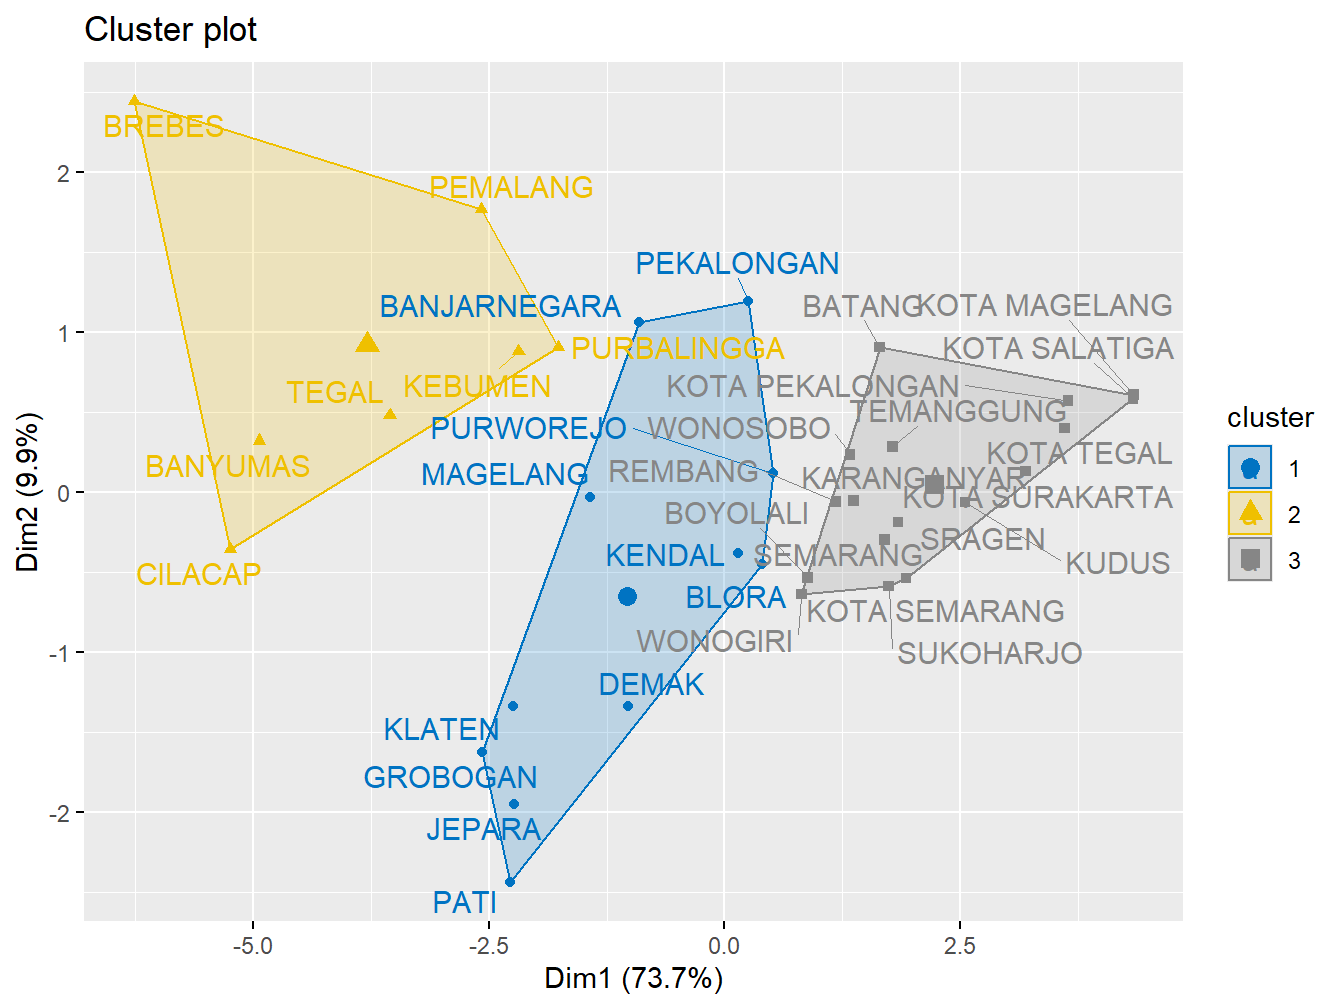
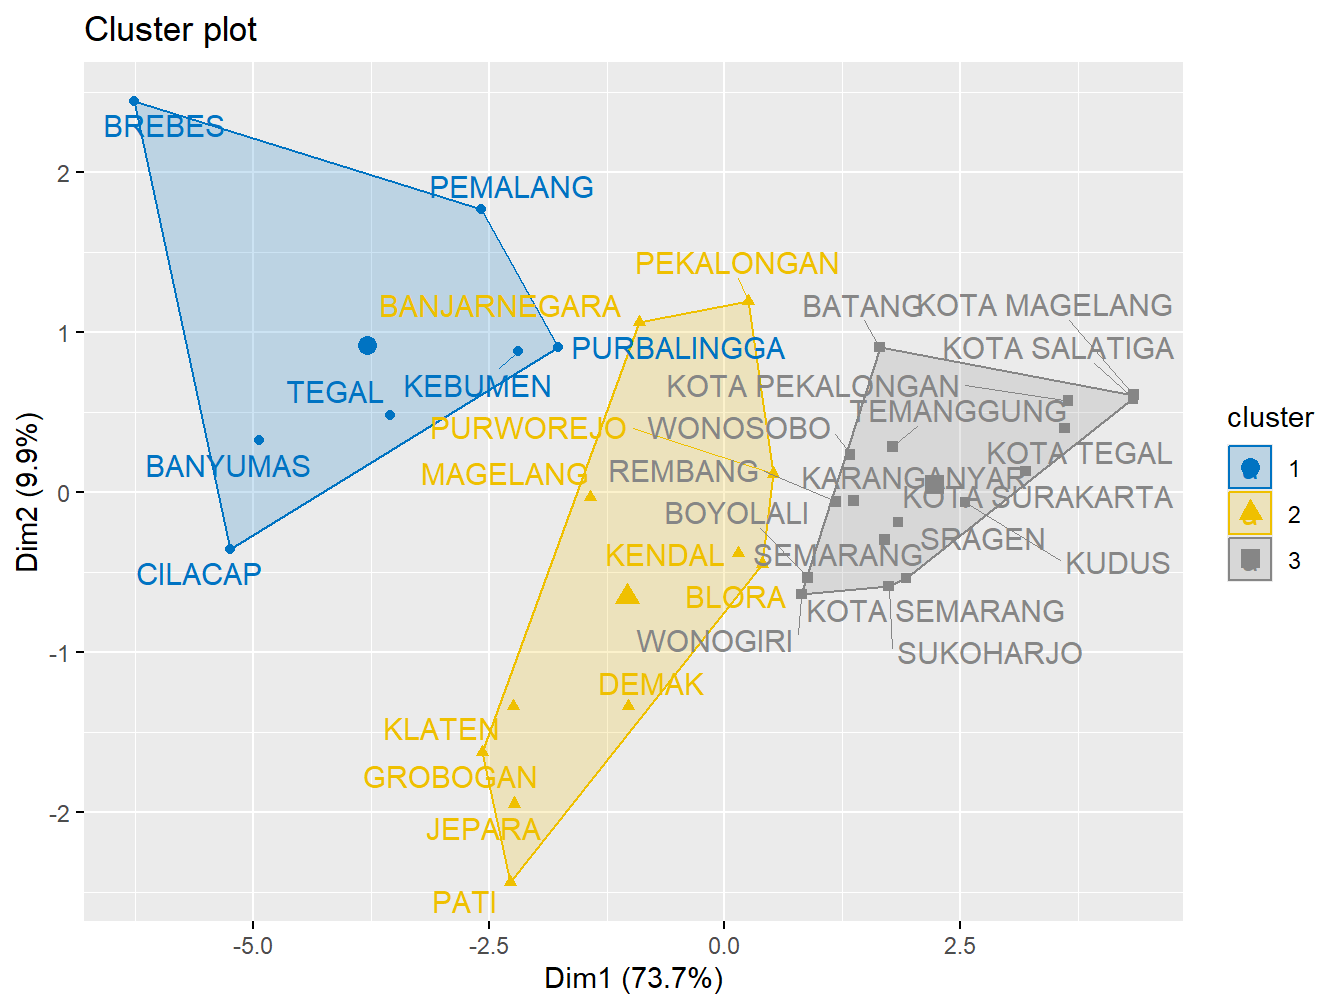
update cover

Changed region(s): [[0.0625, 0.0923, 0.625, 0.9226]]

diff --git a/docs/index.html b/docs/index.html
@@ -383,10 +383,7 @@ text-align: justify}
 Bisnis Muhammadiyah <br> Semarang, Indonesia <br>
 <a href=\"mailto:deden.istiawan@itesa.ac.id?subject=Clustering%20with%20R\"><a href="mailto:deden.istiawan@itesa.ac.id" class="email">deden.istiawan@itesa.ac.id</a>.</a>
 <br><br>
-Last updated on Friday, January 10, 2025.
-<br> <br>
-<iframe src="https://www.facebook.com/plugins/like.php?href=https%3A%2F%2Fwww.facebook.com%2FEconometricsWithR%2F&width=450&layout=standard&action=like&size=small&show_faces=true&share=true&height=80&appId" width="400" height="70" style="border:none;overflow:hidden" scrolling="no" frameborder="0" allowTransparency="true" allow="encrypted-media" align="left"></iframe>
-<br> <br> <br></p>
+Last updated on Friday, January 10, 2025.</p>
 <hr style="background-color:#3C6690;height:2px">
 <p>Analisis <em>cluster</em> merupakan teknik yang sangat penting dalam bidang data
 science, karena kemampuannya untuk mengelompokkan data berdasarkan

diff --git a/docs/08-ch8.md b/docs/08-ch8.md
@@ -127,41 +127,41 @@ library(ppclust)
 res.fcm <- fcm(data, centers=3)
 as.data.frame(res.fcm$u)
 #>                  Cluster 1  Cluster 2  Cluster 3
-#> CILACAP         0.70608174 0.09432155 0.19959671
-#> BANYUMAS        0.87685700 0.03242738 0.09071562
-#> PURBALINGGA     0.58855259 0.12503329 0.28641412
-#> BANJARNEGARA    0.27431153 0.15770912 0.56797934
-#> KEBUMEN         0.55326811 0.12183017 0.32490172
-#> PURWOREJO       0.15508384 0.37665821 0.46825795
-#> WONOSOBO        0.04794255 0.73997169 0.21208577
-#> MAGELANG        0.11864932 0.12565978 0.75569090
-#> BOYOLALI        0.04746322 0.65917928 0.29335751
-#> KLATEN          0.40625017 0.15366683 0.44008300
-#> SUKOHARJO       0.01812578 0.90659203 0.07528219
-#> WONOGIRI        0.05984340 0.62649398 0.31366262
-#> KARANGANYAR     0.03151333 0.83280963 0.13567704
-#> SRAGEN          0.01369224 0.92987167 0.05643609
-#> GROBOGAN        0.20509357 0.10906165 0.68584478
-#> BLORA           0.06584083 0.42364979 0.51050938
-#> REMBANG         0.03515460 0.77496097 0.18988443
-#> PATI            0.18018760 0.18226626 0.63754615
-#> KUDUS           0.01358093 0.93999864 0.04642043
-#> JEPARA          0.17434136 0.13357477 0.69208387
-#> DEMAK           0.12077163 0.22405973 0.65516864
-#> SEMARANG        0.01375558 0.92443899 0.06180543
-#> TEMANGGUNG      0.01515432 0.92181846 0.06302723
-#> KENDAL          0.07103512 0.30783534 0.62112953
-#> BATANG          0.05146780 0.74568211 0.20285008
-#> PEKALONGAN      0.11753007 0.33879435 0.54367557
-#> PEMALANG        0.47108349 0.13508254 0.39383397
-#> TEGAL           0.61445746 0.08391671 0.30162583
-#> BREBES          0.64100931 0.11958050 0.23941019
-#> KOTA MAGELANG   0.05127744 0.82227544 0.12644712
-#> KOTA SURAKARTA  0.03051218 0.88284897 0.08663885
-#> KOTA SALATIGA   0.05093432 0.82356236 0.12550332
-#> KOTA SEMARANG   0.04152177 0.81177689 0.14670134
-#> KOTA PEKALONGAN 0.03226874 0.87988142 0.08784985
-#> KOTA TEGAL      0.03188749 0.88100104 0.08711147
+#> CILACAP         0.19959671 0.70608174 0.09432155
+#> BANYUMAS        0.09071562 0.87685700 0.03242738
+#> PURBALINGGA     0.28641412 0.58855259 0.12503329
+#> BANJARNEGARA    0.56797934 0.27431153 0.15770912
+#> KEBUMEN         0.32490172 0.55326811 0.12183017
+#> PURWOREJO       0.46825795 0.15508384 0.37665821
+#> WONOSOBO        0.21208577 0.04794255 0.73997169
+#> MAGELANG        0.75569090 0.11864932 0.12565978
+#> BOYOLALI        0.29335751 0.04746322 0.65917928
+#> KLATEN          0.44008300 0.40625017 0.15366683
+#> SUKOHARJO       0.07528219 0.01812578 0.90659203
+#> WONOGIRI        0.31366262 0.05984340 0.62649398
+#> KARANGANYAR     0.13567704 0.03151333 0.83280963
+#> SRAGEN          0.05643609 0.01369224 0.92987167
+#> GROBOGAN        0.68584478 0.20509357 0.10906165
+#> BLORA           0.51050938 0.06584083 0.42364979
+#> REMBANG         0.18988443 0.03515460 0.77496097
+#> PATI            0.63754615 0.18018760 0.18226626
+#> KUDUS           0.04642043 0.01358093 0.93999864
+#> JEPARA          0.69208387 0.17434136 0.13357477
+#> DEMAK           0.65516864 0.12077163 0.22405973
+#> SEMARANG        0.06180543 0.01375558 0.92443899
+#> TEMANGGUNG      0.06302723 0.01515432 0.92181846
+#> KENDAL          0.62112953 0.07103512 0.30783534
+#> BATANG          0.20285008 0.05146780 0.74568211
+#> PEKALONGAN      0.54367557 0.11753007 0.33879435
+#> PEMALANG        0.39383397 0.47108349 0.13508254
+#> TEGAL           0.30162583 0.61445746 0.08391671
+#> BREBES          0.23941019 0.64100931 0.11958050
+#> KOTA MAGELANG   0.12644712 0.05127744 0.82227544
+#> KOTA SURAKARTA  0.08663885 0.03051218 0.88284897
+#> KOTA SALATIGA   0.12550332 0.05093432 0.82356236
+#> KOTA SEMARANG   0.14670134 0.04152177 0.81177689
+#> KOTA PEKALONGAN 0.08784985 0.03226874 0.87988142
+#> KOTA TEGAL      0.08711147 0.03188749 0.88100104
 ```
 
 ### Visualisasi Matrik Keanggotaan {-}
@@ -184,10 +184,10 @@ Kode ini digunakan untuk mengakses dan menampilkan pusat cluster pertama (\(v_0\
 
 ``` r
 res.fcm$v0
-#>             X1   X2   X3   X4   X5   X6   X7   X8   X9  X10
-#> Cluster 1 5.00 2.93 7.03 3.52 3.63 5.74 1.44 5.46 2.91 7.10
-#> Cluster 2 1.01 1.31 0.55 0.78 1.25 0.95 2.40 0.75 0.20 0.03
-#> Cluster 3 2.44 3.51 2.23 2.74 2.17 2.14 1.28 2.68 4.03 2.32
+#>             X1   X2   X3   X4   X5   X6    X7   X8   X9  X10
+#> Cluster 1 5.00 2.93 7.03 3.52 3.63 5.74  1.44 5.46 2.91 7.10
+#> Cluster 2 5.19 5.67 5.08 5.44 5.22 6.05 11.47 9.78 5.55 5.12
+#> Cluster 3 2.19 3.07 1.61 2.74 2.11 1.82  1.71 2.34 3.41 1.55
 ```
 
 Kode ini digunakan untuk mengakses dan menampilkan pusat cluster yang dihasilkan setelah algoritma Fuzzy C-Means (FCM) selesai dijalankan. Pada objek `res.fcm`, atribut `v` menyimpan informasi tentang posisi pusat cluster yang telah diperbarui setelah iterasi terakhir. Pusat cluster ini merupakan hasil akhir dari proses clustering dan menunjukkan lokasi sentroid (pusat) dari setiap cluster berdasarkan data dan derajat keanggotaan yang telah dihitung. Dengan menampilkan `res.fcm$v`, kita dapat melihat posisi akhir setiap cluster dalam ruang fitur data, yang membantu untuk memahami bagaimana data telah dikelompokkan ke dalam cluster yang berbeda setelah proses clustering selesai.
@@ -196,13 +196,13 @@ Kode ini digunakan untuk mengakses dan menampilkan pusat cluster yang dihasilkan
 ``` r
 res.fcm$v
 #>                 X1       X2       X3       X4       X5       X6       X7
-#> Cluster 1 5.001721 4.041093 5.531054 4.669414 4.638562 5.500335 6.458007
-#> Cluster 2 1.724771 1.743303 1.432408 1.706002 1.626688 1.504833 1.335312
-#> Cluster 3 3.418238 4.025821 3.497306 3.657048 3.843888 3.477061 3.074419
+#> Cluster 1 3.418238 4.025821 3.497306 3.657048 3.843888 3.477061 3.074419
+#> Cluster 2 5.001721 4.041093 5.531054 4.669414 4.638562 5.500335 6.458007
+#> Cluster 3 1.724771 1.743303 1.432408 1.706002 1.626688 1.504833 1.335312
 #>                 X8       X9      X10
-#> Cluster 1 7.009924 4.458629 6.474407
-#> Cluster 2 1.021470 1.697120 1.056498
-#> Cluster 3 3.057133 3.802309 3.529256
+#> Cluster 1 3.057133 3.802309 3.529256
+#> Cluster 2 7.009924 4.458629 6.474407
+#> Cluster 3 1.021470 1.697120 1.056498
 ```
 
 ### Ringkasan Hasil Clustering FCM {-}
@@ -219,62 +219,62 @@ summary(res.fcm)
 #> Number of clusters:  3 
 #> 
 #> Crisp clustering vector:
-#>  [1] 1 1 1 3 1 3 2 3 2 3 2 2 2 2 3 3 2 3 2 3 3 2 2 3 2 3 1 1 1 2 2 2 2 2 2
+#>  [1] 2 2 2 1 2 1 3 1 3 1 3 3 3 3 1 1 3 1 3 1 1 3 3 1 3 1 2 2 2 3 3 3 3 3 3
 #> 
 #> Initial cluster prototypes:
-#>             X1   X2   X3   X4   X5   X6   X7   X8   X9  X10
-#> Cluster 1 5.00 2.93 7.03 3.52 3.63 5.74 1.44 5.46 2.91 7.10
-#> Cluster 2 1.01 1.31 0.55 0.78 1.25 0.95 2.40 0.75 0.20 0.03
-#> Cluster 3 2.44 3.51 2.23 2.74 2.17 2.14 1.28 2.68 4.03 2.32
+#>             X1   X2   X3   X4   X5   X6    X7   X8   X9  X10
+#> Cluster 1 5.00 2.93 7.03 3.52 3.63 5.74  1.44 5.46 2.91 7.10
+#> Cluster 2 5.19 5.67 5.08 5.44 5.22 6.05 11.47 9.78 5.55 5.12
+#> Cluster 3 2.19 3.07 1.61 2.74 2.11 1.82  1.71 2.34 3.41 1.55
 #> 
 #> Final cluster prototypes:
 #>                 X1       X2       X3       X4       X5       X6       X7
-#> Cluster 1 5.001721 4.041093 5.531054 4.669414 4.638562 5.500335 6.458007
-#> Cluster 2 1.724771 1.743303 1.432408 1.706002 1.626688 1.504833 1.335312
-#> Cluster 3 3.418238 4.025821 3.497306 3.657048 3.843888 3.477061 3.074419
+#> Cluster 1 3.418238 4.025821 3.497306 3.657048 3.843888 3.477061 3.074419
+#> Cluster 2 5.001721 4.041093 5.531054 4.669414 4.638562 5.500335 6.458007
+#> Cluster 3 1.724771 1.743303 1.432408 1.706002 1.626688 1.504833 1.335312
 #>                 X8       X9      X10
-#> Cluster 1 7.009924 4.458629 6.474407
-#> Cluster 2 1.021470 1.697120 1.056498
-#> Cluster 3 3.057133 3.802309 3.529256
+#> Cluster 1 3.057133 3.802309 3.529256
+#> Cluster 2 7.009924 4.458629 6.474407
+#> Cluster 3 1.021470 1.697120 1.056498
 #> 
 #> Distance between the final cluster prototypes
 #>           Cluster 1 Cluster 2
-#> Cluster 2 165.71763          
-#> Cluster 3  48.57171  42.66853
+#> Cluster 2  48.57171          
+#> Cluster 3  42.66853 165.71763
 #> 
 #> Difference between the initial and final cluster prototypes
-#>                    X1        X2         X3        X4        X5         X6
-#> Cluster 1 0.001721419 1.1110934 -1.4989460 1.1494145 1.0085617 -0.2396647
-#> Cluster 2 0.714770622 0.4333027  0.8824084 0.9260023 0.3766881  0.5548330
-#> Cluster 3 0.978238223 0.5158210  1.2673058 0.9170484 1.6738885  1.3370614
+#>                   X1        X2         X3         X4         X5         X6
+#> Cluster 1 -1.5817618  1.095821 -3.5326942  0.1370484  0.2138885 -2.2629386
+#> Cluster 2 -0.1882786 -1.628907  0.4510540 -0.7705855 -0.5814383 -0.5496647
+#> Cluster 3 -0.4652294 -1.326697 -0.1775916 -1.0339977 -0.4833119 -0.3151670
 #>                  X7        X8         X9        X10
-#> Cluster 1  5.018007 1.5499240  1.5486289 -0.6255932
-#> Cluster 2 -1.064688 0.2714704  1.4971205  1.0264979
-#> Cluster 3  1.794419 0.3771326 -0.2276907  1.2092557
+#> Cluster 1  1.634419 -2.402867  0.8923093 -3.5707443
+#> Cluster 2 -5.011993 -2.770076 -1.0913711  1.3544068
+#> Cluster 3 -0.374688 -1.318530 -1.7128795 -0.4935021
 #> 
-#> Root Mean Squared Deviations (RMSD): 4.34635 
-#> Mean Absolute Deviation (MAD): 105.9907 
+#> Root Mean Squared Deviations (RMSD): 5.530865 
+#> Mean Absolute Deviation (MAD): 131.4129 
 #> 
 #> Membership degrees matrix (top and bottom 5 rows): 
-#>              Cluster 1  Cluster 2  Cluster 3
-#> CILACAP      0.7060817 0.09432155 0.19959671
-#> BANYUMAS     0.8768570 0.03242738 0.09071562
-#> PURBALINGGA  0.5885526 0.12503329 0.28641412
-#> BANJARNEGARA 0.2743115 0.15770912 0.56797934
-#> KEBUMEN      0.5532681 0.12183017 0.32490172
+#>               Cluster 1 Cluster 2  Cluster 3
+#> CILACAP      0.19959671 0.7060817 0.09432155
+#> BANYUMAS     0.09071562 0.8768570 0.03242738
+#> PURBALINGGA  0.28641412 0.5885526 0.12503329
+#> BANJARNEGARA 0.56797934 0.2743115 0.15770912
+#> KEBUMEN      0.32490172 0.5532681 0.12183017
 #> ...
-#>                  Cluster 1 Cluster 2  Cluster 3
-#> KOTA SURAKARTA  0.03051218 0.8828490 0.08663885
-#> KOTA SALATIGA   0.05093432 0.8235624 0.12550332
-#> KOTA SEMARANG   0.04152177 0.8117769 0.14670134
-#> KOTA PEKALONGAN 0.03226873 0.8798814 0.08784985
-#> KOTA TEGAL      0.03188749 0.8810010 0.08711147
+#>                  Cluster 1  Cluster 2 Cluster 3
+#> KOTA SURAKARTA  0.08663885 0.03051218 0.8828490
+#> KOTA SALATIGA   0.12550332 0.05093432 0.8235624
+#> KOTA SEMARANG   0.14670134 0.04152177 0.8117769
+#> KOTA PEKALONGAN 0.08784985 0.03226873 0.8798814
+#> KOTA TEGAL      0.08711147 0.03188749 0.8810010
 #> 
 #> Descriptive statistics for the membership degrees by clusters
 #>           Size       Min        Q1      Mean    Median        Q3       Max
-#> Cluster 1    7 0.4710835 0.5709104 0.6359014 0.6144575 0.6735455 0.8768570
-#> Cluster 2   17 0.6264940 0.7749610 0.8295979 0.8328096 0.9065920 0.9399986
-#> Cluster 3   11 0.4400830 0.5270925 0.5979972 0.6211295 0.6705067 0.7556909
+#> Cluster 1   11 0.4400830 0.5270925 0.5979972 0.6211295 0.6705067 0.7556909
+#> Cluster 2    7 0.4710835 0.5709104 0.6359014 0.6144575 0.6735455 0.8768570
+#> Cluster 3   17 0.6264940 0.7749610 0.8295979 0.8328096 0.9065920 0.9399986
 #> 
 #> Dunn's Fuzziness Coefficients:
 #> dunn_coeff normalized 
@@ -282,7 +282,7 @@ summary(res.fcm)
 #> 
 #> Within cluster sum of squares by cluster:
 #>        1        2        3 
-#> 220.3251 130.5953 200.0818 
+#> 200.0818 220.3251 130.5953 
 #> (between_SS / total_SS =  61.98%) 
 #> 
 #> Available components: 
@@ -316,7 +316,7 @@ Menampilkan `res.fcm$iter` memberikan wawasan tentang seberapa cepat atau lambat
 
 ``` r
 res.fcm$iter
-#> [1] 75 85 72 75 77
+#> [1] 83 78 83 86 78
 ```
 
 Untuk menampilkan hasil terbaik dari beberapa percobaan yang dilakukan selama eksekusi algoritma Fuzzy C-Means (FCM) dengan multiple starts. Atribut `res.fcm$best.start` menunjukkan indeks dari percobaan (start) yang menghasilkan solusi terbaik berdasarkan nilai fungsi tujuan (objective function) terendah. 

diff --git a/docs/01-ch1.md b/docs/01-ch1.md
@@ -286,8 +286,8 @@ Berikut adalah library yang digunakan dalam buku ini:
 
 
 ```{=html}
-<div class="datatables html-widget html-fill-item" id="htmlwidget-b53b9e305381bcf9c714" style="width:100%;height:auto;"></div>
-<script type="application/json" data-for="htmlwidget-b53b9e305381bcf9c714">{"x":{"filter":"top","vertical":false,"filterHTML":"<tr>\n  <td data-type=\"character\" style=\"vertical-align: top;\">\n    <div class=\"form-group has-feedback\" style=\"margin-bottom: auto;\">\n      <input type=\"search\" placeholder=\"All\" class=\"form-control\" style=\"width: 100%;\"/>\n      <span class=\"glyphicon glyphicon-remove-circle form-control-feedback\"><\/span>\n    <\/div>\n  <\/td>\n  <td data-type=\"character\" style=\"vertical-align: top;\">\n    <div class=\"form-group has-feedback\" style=\"margin-bottom: auto;\">\n      <input type=\"search\" placeholder=\"All\" class=\"form-control\" style=\"width: 100%;\"/>\n      <span class=\"glyphicon glyphicon-remove-circle form-control-feedback\"><\/span>\n    <\/div>\n  <\/td>\n  <td data-type=\"character\" style=\"vertical-align: top;\">\n    <div class=\"form-group has-feedback\" style=\"margin-bottom: auto;\">\n      <input type=\"search\" placeholder=\"All\" class=\"form-control\" style=\"width: 100%;\"/>\n      <span class=\"glyphicon glyphicon-remove-circle form-control-feedback\"><\/span>\n    <\/div>\n  <\/td>\n  <td data-type=\"character\" style=\"vertical-align: top;\">\n    <div class=\"form-group has-feedback\" style=\"margin-bottom: auto;\">\n      <input type=\"search\" placeholder=\"All\" class=\"form-control\" style=\"width: 100%;\"/>\n      <span class=\"glyphicon glyphicon-remove-circle form-control-feedback\"><\/span>\n    <\/div>\n  <\/td>\n<\/tr>","data":[["corrplot","dendextend","dplyr","DT","factoextra","ggplot2","gridExtra","igraph","klaR","ppclust","cluster","MASS"],["0.95","1.18.1","1.1.4","0.33","1.0.7","3.5.1","2.3","2.1.1","1.7-3","1.1.0.1","2.1.6","7.3-60.2"],["4.4.1","4.4.1","4.4.0","4.4.1","4.4.2","4.4.2","4.4.1","4.4.1","4.4.2","4.4.1","4.4.0","4.4.0"],[null,null,null,null,null,null,null,null,null,null,"recommended","recommended"]],"container":"<table class=\"cell-border stripe\">\n  <thead>\n    <tr>\n      <th>Package<\/th>\n      <th>Version<\/th>\n      <th>Built<\/th>\n      <th>Priority<\/th>\n    <\/tr>\n  <\/thead>\n<\/table>","options":{"pageLength":12,"autoWidth":true,"bInfo":false,"paging":false,"columnDefs":[{"name":"Package","targets":0},{"name":"Version","targets":1},{"name":"Built","targets":2},{"name":"Priority","targets":3}],"order":[],"orderClasses":false,"orderCellsTop":true,"lengthMenu":[10,12,25,50,100]}},"evals":[],"jsHooks":[]}</script>
+<div class="datatables html-widget html-fill-item" id="htmlwidget-e7a90687ce55a20b1467" style="width:100%;height:auto;"></div>
+<script type="application/json" data-for="htmlwidget-e7a90687ce55a20b1467">{"x":{"filter":"top","vertical":false,"filterHTML":"<tr>\n  <td data-type=\"character\" style=\"vertical-align: top;\">\n    <div class=\"form-group has-feedback\" style=\"margin-bottom: auto;\">\n      <input type=\"search\" placeholder=\"All\" class=\"form-control\" style=\"width: 100%;\"/>\n      <span class=\"glyphicon glyphicon-remove-circle form-control-feedback\"><\/span>\n    <\/div>\n  <\/td>\n  <td data-type=\"character\" style=\"vertical-align: top;\">\n    <div class=\"form-group has-feedback\" style=\"margin-bottom: auto;\">\n      <input type=\"search\" placeholder=\"All\" class=\"form-control\" style=\"width: 100%;\"/>\n      <span class=\"glyphicon glyphicon-remove-circle form-control-feedback\"><\/span>\n    <\/div>\n  <\/td>\n  <td data-type=\"character\" style=\"vertical-align: top;\">\n    <div class=\"form-group has-feedback\" style=\"margin-bottom: auto;\">\n      <input type=\"search\" placeholder=\"All\" class=\"form-control\" style=\"width: 100%;\"/>\n      <span class=\"glyphicon glyphicon-remove-circle form-control-feedback\"><\/span>\n    <\/div>\n  <\/td>\n  <td data-type=\"character\" style=\"vertical-align: top;\">\n    <div class=\"form-group has-feedback\" style=\"margin-bottom: auto;\">\n      <input type=\"search\" placeholder=\"All\" class=\"form-control\" style=\"width: 100%;\"/>\n      <span class=\"glyphicon glyphicon-remove-circle form-control-feedback\"><\/span>\n    <\/div>\n  <\/td>\n<\/tr>","data":[["corrplot","dendextend","dplyr","DT","factoextra","ggplot2","gridExtra","igraph","klaR","ppclust","cluster","MASS"],["0.95","1.18.1","1.1.4","0.33","1.0.7","3.5.1","2.3","2.1.1","1.7-3","1.1.0.1","2.1.6","7.3-60.2"],["4.4.1","4.4.1","4.4.0","4.4.1","4.4.2","4.4.2","4.4.1","4.4.1","4.4.2","4.4.1","4.4.0","4.4.0"],[null,null,null,null,null,null,null,null,null,null,"recommended","recommended"]],"container":"<table class=\"cell-border stripe\">\n  <thead>\n    <tr>\n      <th>Package<\/th>\n      <th>Version<\/th>\n      <th>Built<\/th>\n      <th>Priority<\/th>\n    <\/tr>\n  <\/thead>\n<\/table>","options":{"pageLength":12,"autoWidth":true,"bInfo":false,"paging":false,"columnDefs":[{"name":"Package","targets":0},{"name":"Version","targets":1},{"name":"Built","targets":2},{"name":"Priority","targets":3}],"order":[],"orderClasses":false,"orderCellsTop":true,"lengthMenu":[10,12,25,50,100]}},"evals":[],"jsHooks":[]}</script>
 ```
 
 

diff --git a/docs/index.md b/docs/index.md
@@ -78,9 +78,6 @@ Bisnis Muhammadiyah <br> Semarang, Indonesia <br>
 <a href=\"mailto:deden.istiawan@itesa.ac.id?subject=Clustering%20with%20R\">[deden.istiawan\@itesa.ac.id](mailto:deden.istiawan@itesa.ac.id){.email}.</a>
 <br><br>
 Last updated on Friday, January 10, 2025.
-<br> <br>
-<iframe src="https://www.facebook.com/plugins/like.php?href=https%3A%2F%2Fwww.facebook.com%2FEconometricsWithR%2F&width=450&layout=standard&action=like&size=small&show_faces=true&share=true&height=80&appId" width="400" height="70" style="border:none;overflow:hidden" scrolling="no" frameborder="0" allowTransparency="true" allow="encrypted-media" align="left"></iframe>
-<br> <br> <br>
 
 <hr style="background-color:#3C6690;height:2px">
 

diff --git a/docs/09-ch9.md b/docs/09-ch9.md
@@ -172,9 +172,9 @@ res.pcm <- pcm(iris_data, centers=v0)
 v0 <- inaparc::kmpp(iris_data, k=3)$v
 print(v0)
 #>      Sepal.Length Sepal.Width Petal.Length Petal.Width
-#> Cl.1          5.1         3.8          1.5         0.3
-#> Cl.2          7.7         3.0          6.1         2.3
-#> Cl.3          6.6         2.9          4.6         1.3
+#> Cl.1          7.7         2.8          6.7         2.0
+#> Cl.2          5.9         3.0          4.2         1.5
+#> Cl.3          4.6         3.6          1.0         0.2
 ```
 
 
